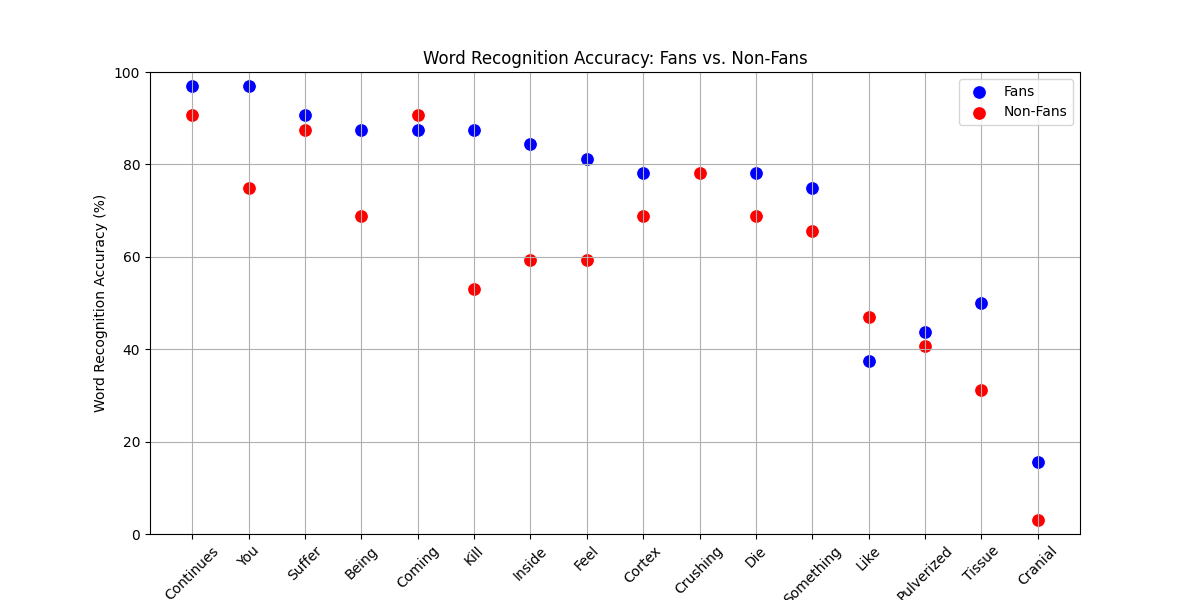
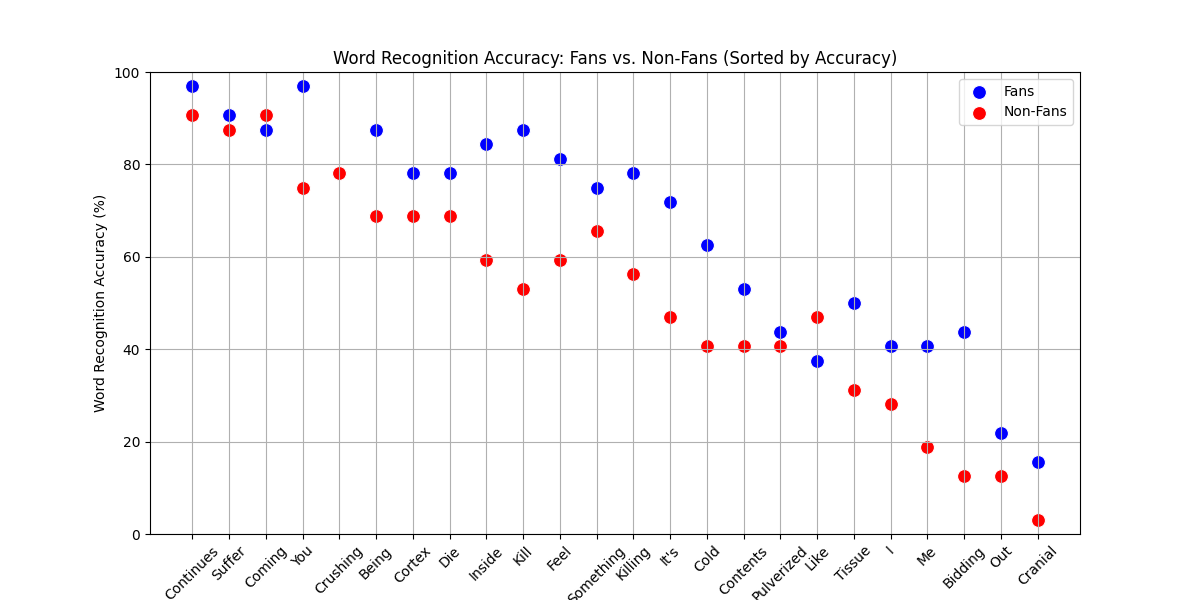
some changes

diff --git a/death_metal_paper.py b/death_metal_paper.py
@@ -3,17 +3,13 @@ import matplotlib.pyplot as plt
 import seaborn as sns
 import time
 
-
 # This analysis visualizes the data from the study:
 # Olsen, K. N., Thompson, W. F., & Giblin, I. (2018).
 # Listener expertise enhances intelligibility of vocalizations in death metal music.
 # *Music Perception, 35(5), 527-539.* DOI: [10.1525/mp.2018.35.5.527](https://doi.org/10.1525/mp.2018.35.5.527)
 #
-# The first plot compares word recognition accuracy between fans and non-fans of death metal
+# The plot compares word recognition accuracy between fans and non-fans of death metal
 # for individual words extracted from Cannibal Corpse lyrics (the song is called "Hammer Smashed Face").
-#
-# The second plot visualizes the average recognition accuracy for metal-related and neutral words,
-# showing differences in perception between fans and non-fans.
 #
 # The findings support the hypothesis that genre familiarity improves intelligibility,
 # even in extreme vocal conditions.
@@ -21,17 +17,18 @@ import time
 # Data from TABLE 3 in the paper - Word recognition accuracy for individual words
 words_data = {
     "Word": ["Continues", "You", "Suffer", "Being", "Coming", "Kill", "Inside", "Feel", "Cortex", "Crushing",
-             "Die", "Something", "Like", "Pulverized", "Tissue", "Cranial"],
+             "Die", "Something", "Like", "Pulverized", "Tissue", "Cranial", "It's", "Cold", "Contents", "Bidding", "I", "Me", "Out", "Killing"],
     "Fans Accuracy (%)": [96.88, 96.88, 90.63, 87.50, 87.50, 87.50, 84.38, 81.25, 78.13, 78.13,
-                          78.13, 75.00, 37.50, 43.75, 50.00, 15.63],
+                          78.13, 75.00, 37.50, 43.75, 50.00, 15.63, 71.88, 62.50, 53.13, 43.75, 40.63, 40.63, 21.88, 78.13],
     "Non-Fans Accuracy (%)": [90.63, 75.00, 87.50, 68.75, 90.63, 53.13, 59.38, 59.38, 68.75, 78.13,
-                              68.75, 65.63, 46.88, 40.63, 31.25, 3.13],
-    # Context labels from TABLE 2 in the paper (Context-Congruent = Metal-related, Context-Neutral = Not Metal-related)
-    "Context": ["Neutral", "Neutral", "Metal", "Neutral", "Metal", "Metal", "Metal", "Metal", "Metal", "Metal",
-                "Metal", "Neutral", "Neutral", "Metal", "Neutral", "Metal"]
+                              68.75, 65.63, 46.88, 40.63, 31.25, 3.13, 46.88, 40.63, 40.63, 12.50, 28.13, 18.75, 12.50, 56.25]
 }
 
 df_words = pd.DataFrame(words_data)
+
+# Sort words by descending accuracy (average of fans and non-fans)
+df_words["Avg Accuracy"] = (df_words["Fans Accuracy (%)"] + df_words["Non-Fans Accuracy (%)"]) / 2
+df_words = df_words.sort_values(by="Avg Accuracy", ascending=False)
 
 # A scatter plot to compare word recognition accuracy between fans and non-fans
 plt.figure(figsize=(12, 6))
@@ -40,47 +37,15 @@ sns.scatterplot(x="Word", y="Non-Fans Accuracy (%)", data=df_words, label="Non-F
 
 plt.xticks(rotation=45)
 plt.ylim(0, 100)
-plt.title("Word Recognition Accuracy: Fans vs. Non-Fans")
+plt.title("Word Recognition Accuracy: Fans vs. Non-Fans (Sorted by Accuracy)")
 plt.ylabel("Word Recognition Accuracy (%)")
-plt.xlabel("Words")
+plt.xlabel("Words (Sorted by Avg Accuracy)")
 plt.legend()
 plt.grid(True)
-plt.show(block=False)  # Show without blocking execution
-
-# Additional question: Do fans recognize metal-related words better than non-metal words?
-metal_words = df_words[df_words["Context"] == "Metal"]
-neutral_words = df_words[df_words["Context"] == "Neutral"]
-
-avg_metal_fans = metal_words["Fans Accuracy (%)"].mean()
-avg_metal_nonfans = metal_words["Non-Fans Accuracy (%)"].mean()
-avg_neutral_fans = neutral_words["Fans Accuracy (%)"].mean()
-avg_neutral_nonfans = neutral_words["Non-Fans Accuracy (%)"].mean()
-
-print("\nAverage Word Recognition Accuracy by Context:")
-print(f"Fans (Metal words): {avg_metal_fans:.2f}%")
-print(f"Non-Fans (Metal words): {avg_metal_nonfans:.2f}%")
-print(f"Fans (Neutral words): {avg_neutral_fans:.2f}%")
-print(f"Non-Fans (Neutral words): {avg_neutral_nonfans:.2f}%")
-
-# Visualizing the results: Metal vs. Neutral words recognition accuracy
-fig, axes = plt.subplots(1, 2, figsize=(12, 5), sharey=True)
-
-# Metal words recognition accuracy
-sns.barplot(x=["Fans", "Non-Fans"], y=[avg_metal_fans, avg_metal_nonfans], ax=axes[0], palette="coolwarm")
-axes[0].set_title("Recognition Accuracy - Metal Words")
-axes[0].set_ylim(50, 80)
-axes[0].set_ylabel("Accuracy (%)")
-
-# Neutral words recognition accuracy
-sns.barplot(x=["Fans", "Non-Fans"], y=[avg_neutral_fans, avg_neutral_nonfans], ax=axes[1], palette="coolwarm")
-axes[1].set_title("Recognition Accuracy - Neutral Words")
-axes[1].set_ylabel("Accuracy (%)")
 plt.show(block=False)
 plt.pause(1000)
 
 # Discussion of results:
-# - Fans generally recognize words better than non-fans, regardless of context.
-# - However, the gap in recognition accuracy is more pronounced for metal-related words.
-# - This supports the hypothesis that exposure to death metal improves perception of its distorted vocals.
-# - Neutral words are still recognized well, indicating that fan expertise does not only apply to metal words.
+# - Fans generally recognize words better than non-fans.
+# - The results suggest that exposure to death metal improves perception of its distorted vocals.
 # - Future research could examine whether long-term exposure to extreme metal affects broader speech perception skills.
